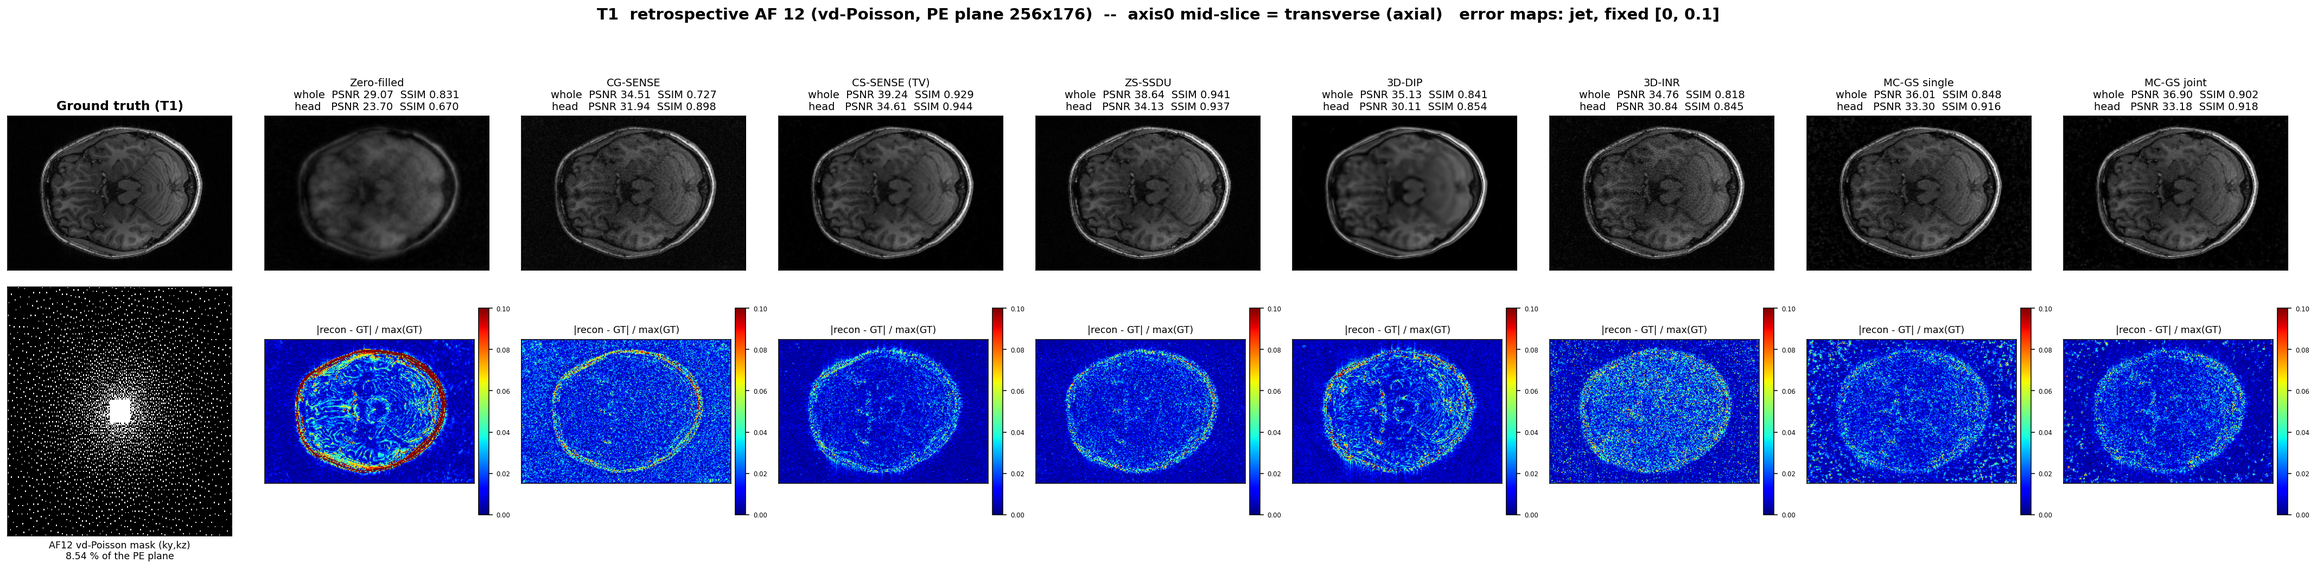
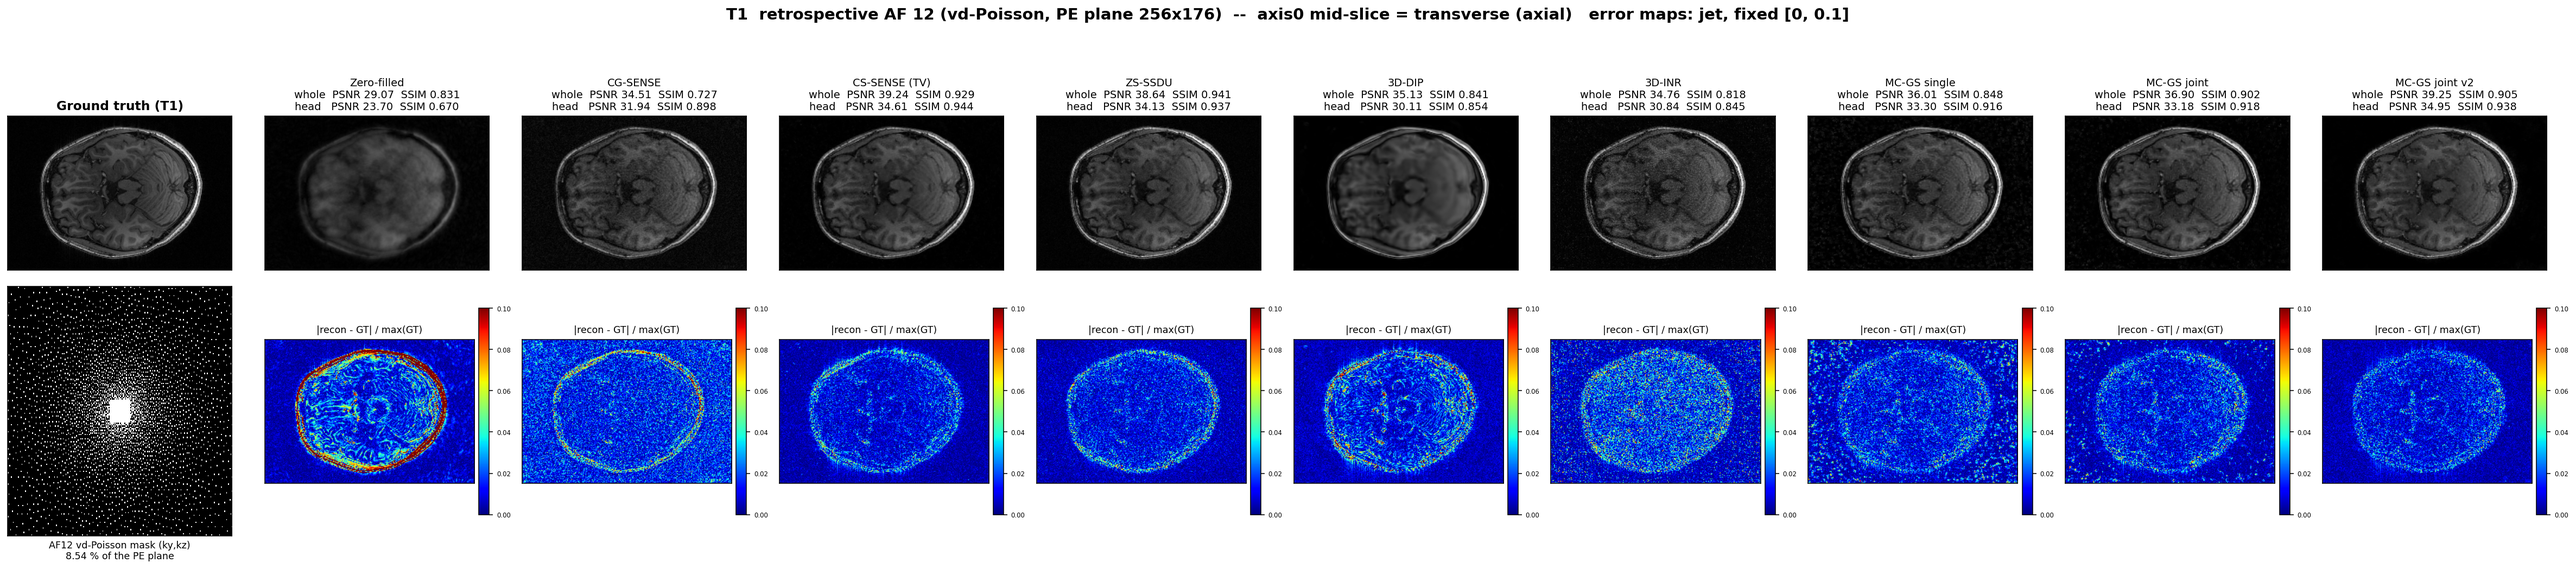
t1flair: transfer check of the T1+T2 autoresearch recipe, unchanged - 'MC-GS joint v2' first on head PSNR and head HFEN on both contrasts (T1 34.950, FLAIR 33.492), head SSIM behind ZS-SSDU on FLAIR

diff --git a/t1flair_af12_retro/scripts/summarize.py b/t1flair_af12_retro/scripts/summarize.py
@@ -18,9 +18,10 @@ ARC = Path("/data0/congcong/code/GS/Paired_ARC_GS_general_framework/results_arc"
 
 COLS = ["psnr", "ssim", "nmse", "hfen", "head_psnr", "head_ssim", "head_hfen",
         "sharp", "grain", "grain_ratio"]
-ORDER = ["zf", "cgsense", "cssense", "zsssdu", "dip", "inr", "gs_single", "gs_joint"]
+ORDER = ["zf", "cgsense", "cssense", "zsssdu", "dip", "inr", "gs_single", "gs_joint", "gs_joint_v2"]
 LABEL = {"zf": "ZF", "cgsense": "CG-SENSE", "cssense": "CS-SENSE", "zsssdu": "ZS-SSDU",
-         "dip": "3D-DIP", "inr": "3D-INR", "gs_single": "MC-GS single", "gs_joint": "MC-GS joint"}
+         "dip": "3D-DIP", "inr": "3D-INR", "gs_single": "MC-GS single", "gs_joint": "MC-GS joint",
+         "gs_joint_v2": "MC-GS joint v2"}
 
 
 def main():
@@ -41,6 +42,13 @@ def main():
         for ch, name in (("plain", d.get("plain_name", "T1")), ("contrast", d.get("contrast_name", "FLAIR"))):
             rows.append({"contrast": name, "method": "gs_joint",
                          **{k: d[ch].get(k) for k in COLS}, "seconds": None})
+    # v2 = autoresearch recipe (framework repo autoresearch_t1t2.md), transfer check, 4000 iters
+    vp = ARC / "ar5_tf_hyw_t1flair_score.json"
+    if vp.exists():
+        d = json.load(open(vp))
+        for ch, name in (("plain", d.get("plain_name", "T1")), ("contrast", d.get("contrast_name", "FLAIR"))):
+            rows.append({"contrast": name, "method": "gs_joint_v2",
+                         **{k: d[ch].get(k) for k in COLS}, "seconds": d.get("elapsed_s")})
     for c in ("T1", "FLAIR"):
         sp = ARC / f"t1flair_af12_single_{c}_score.json"
         if sp.exists():

diff --git a/t1flair_af12_retro/scripts/make_figures.py b/t1flair_af12_retro/scripts/make_figures.py
@@ -14,7 +14,7 @@ from pathlib import Path
 
 ap = argparse.ArgumentParser()
 ap.add_argument("--contrast", required=True, choices=["T1", "FLAIR"])
-ap.add_argument("--methods", default="zf,cgsense,cssense,zsssdu,dip,inr,gs_single,gs_joint")
+ap.add_argument("--methods", default="zf,cgsense,cssense,zsssdu,dip,inr,gs_single,gs_joint,gs_joint_v2")
 ap.add_argument("--out", default=None)
 args = ap.parse_args()
 
@@ -30,7 +30,7 @@ FIGS.mkdir(parents=True, exist_ok=True)
 ANAT = {0: "transverse (axial)", 1: "coronal", 2: "sagittal"}   # adjudicated 2026-09-09, see README
 LABEL = {"zf": "Zero-filled", "cgsense": "CG-SENSE", "cssense": "CS-SENSE (TV)",
          "zsssdu": "ZS-SSDU", "dip": "3D-DIP", "inr": "3D-INR",
-         "gs_single": "MC-GS single", "gs_joint": "MC-GS joint"}
+         "gs_single": "MC-GS single", "gs_joint": "MC-GS joint", "gs_joint_v2": "MC-GS joint v2"}
 
 
 def load(method, c):

diff --git a/t1flair_af12_retro/scripts/extract_gs_volumes.py b/t1flair_af12_retro/scripts/extract_gs_volumes.py
@@ -19,7 +19,9 @@ ARC = Path("/data0/congcong/code/GS/Paired_ARC_GS_general_framework/results_arc"
 JOBS = [("t1flair_af12_joint", "gs_joint", [("recT1", "T1"), ("recFL", "FLAIR")],
          [("gtT1", "T1"), ("gtFL", "FLAIR")], [("zfT1", "T1"), ("zfFL", "FLAIR")]),
         ("t1flair_af12_single_T1", "gs_single", [("recT1", "T1")], [], []),
-        ("t1flair_af12_single_FLAIR", "gs_single", [("recT1", "FLAIR")], [], [])]
+        ("t1flair_af12_single_FLAIR", "gs_single", [("recT1", "FLAIR")], [], []),
+        # v2 = the autoresearch recipe found on the T1+T2 pair, applied here UNCHANGED as a transfer check
+        ("ar5_tf_hyw_t1flair", "gs_joint_v2", [("recT1", "T1"), ("recFL", "FLAIR")], [], [])]
 
 
 def main():

diff --git a/t1flair_af12_retro/README.md b/t1flair_af12_retro/README.md
@@ -39,7 +39,8 @@ this pair than on T1+T2.
 
 | method | PSNR | SSIM | head PSNR | head SSIM |
 |---|---|---|---|---|
-| ZS-SSDU | 38.012 | 0.9525 | **33.269** | **0.9235** |
+| **MC-GS joint v2** (transfer check, see below) | 37.844 | 0.8835 | **33.492** | 0.9023 |
+| ZS-SSDU | 38.012 | 0.9525 | 33.269 | **0.9235** |
 | CS-SENSE | 37.897 | 0.9346 | 33.252 | 0.9127 |
 | CG-SENSE | 34.616 | 0.7328 | 32.192 | 0.8834 |
 | MC-GS joint | 35.466 | 0.8669 | 31.806 | 0.8870 |
@@ -48,8 +49,8 @@ this pair than on T1+T2.
 | 3D-DIP | 34.288 | 0.7924 | 29.397 | 0.8048 |
 | ZF | 31.677 | 0.8503 | 26.738 | 0.6882 |
 
-The T1 table is in `logs/summary.tsv` and matches the T1+T2 topic except for the joint row, which
-is necessarily different because T1 is now paired with FLAIR.
+The T1 table is in `logs/summary.tsv` and matches the T1+T2 topic except for the joint rows, which
+are necessarily different because T1 is now paired with FLAIR (v2: whole 39.253 / head 34.950, head SSIM 0.9379, against CS-SENSE 34.607 / 0.9436).
 
 ### The joint-versus-single result, four channel-pairings
 
@@ -68,8 +69,29 @@ is that shared geometry is buying background suppression from the explicit repre
 better anatomy.
 
 That the better-registered pairing does not rescue the head-only number is the informative part:
-it removes co-registration quality as the explanation for the T1+T2 null result. The remaining
-untested explanation is the missing warm start, which is common to every run in both topics.
+it removes co-registration quality as the explanation for the T1+T2 null result. The explanation
+turned out to be the cold-start path itself, common to every MC-GS run in both topics — see below.
+
+### MC-GS joint v2 — the T1+T2 recipe transferred unchanged (2026-09-10)
+
+The autoresearch loop run on the T1+T2 pair (framework repo `autoresearch_t1t2.md`, and the
+"MC-GS joint v2" section of the T1+T2 README) found three defects in the fresh-cloud path —
+uniform init over the render box with 72 % of the points in air, edge-TV kappa calibrated on
+the first render's speckle, no capacity growth — and fixed them with four structural changes
+(points drawn inside the ZF head support, 3-NN spacing scales, kappa from the ZF image, 1.2M
+points). Because those changes were selected on the T1+T2 pair with the ground truth in the
+scorer, this topic is a **transfer check: the recipe was applied here without touching a single
+knob** (`ar5_tf_hyw_t1flair`, 4000 iterations, volumes in `results_arc/`).
+
+| channel | v2 head PSNR | best other arm | v2 head SSIM | best other arm | v2 head HFEN | best other arm |
+|---|---|---|---|---|---|---|
+| T1 | **34.950** | CS-SENSE 34.607 | 0.9379 | CS-SENSE 0.9436 | **0.0851** | CS-SENSE 0.1071 |
+| FLAIR | **33.492** | ZS-SSDU 33.269 | 0.9023 | ZS-SSDU 0.9235 | **0.1150** | CS-SENSE 0.1302 |
+
+The transfer holds on head PSNR (+0.34 dB on T1, +0.22 dB on FLAIR over the best other arm; +1.77 / +1.69 dB over the
+original joint arm) and on head HFEN, and does not hold on head SSIM, where ZS-SSDU keeps a
+0.02 lead on FLAIR. Figures regenerated with the tenth column
+(`figures/t1flair_af12_{T1,FLAIR}_plane{0,1,2}.png`).
 
 ## Regenerating
 
